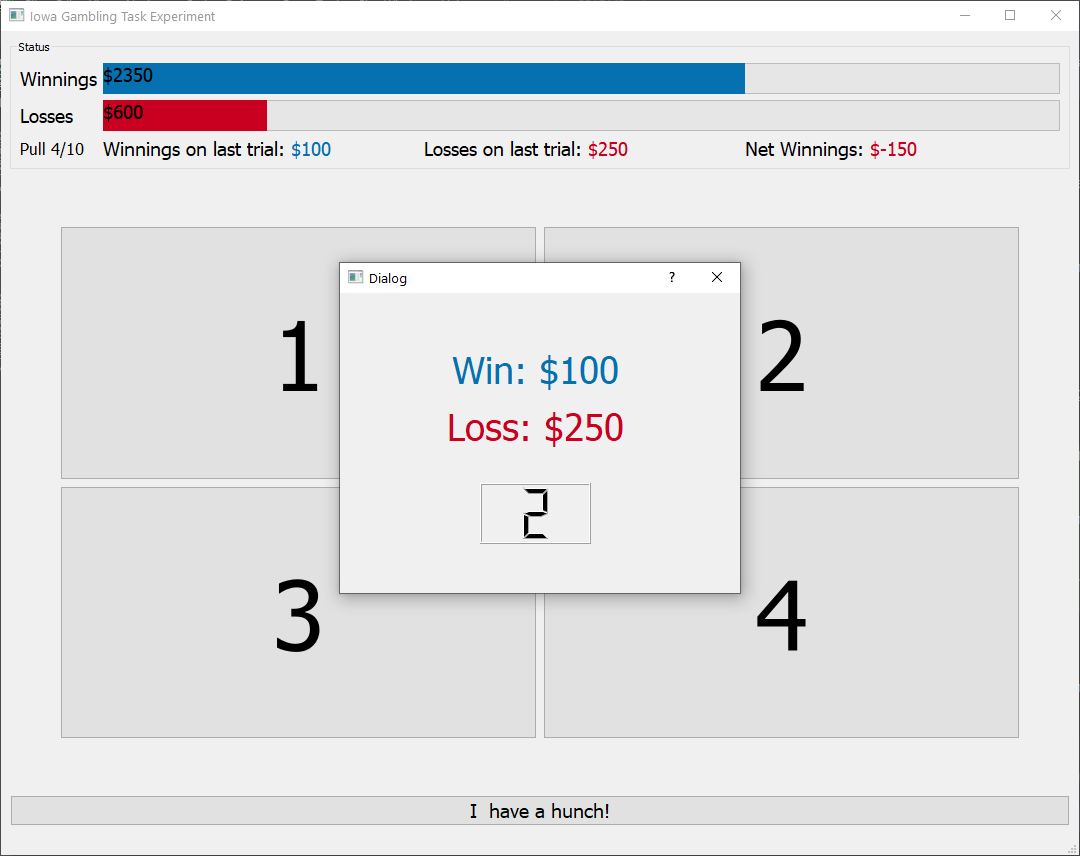
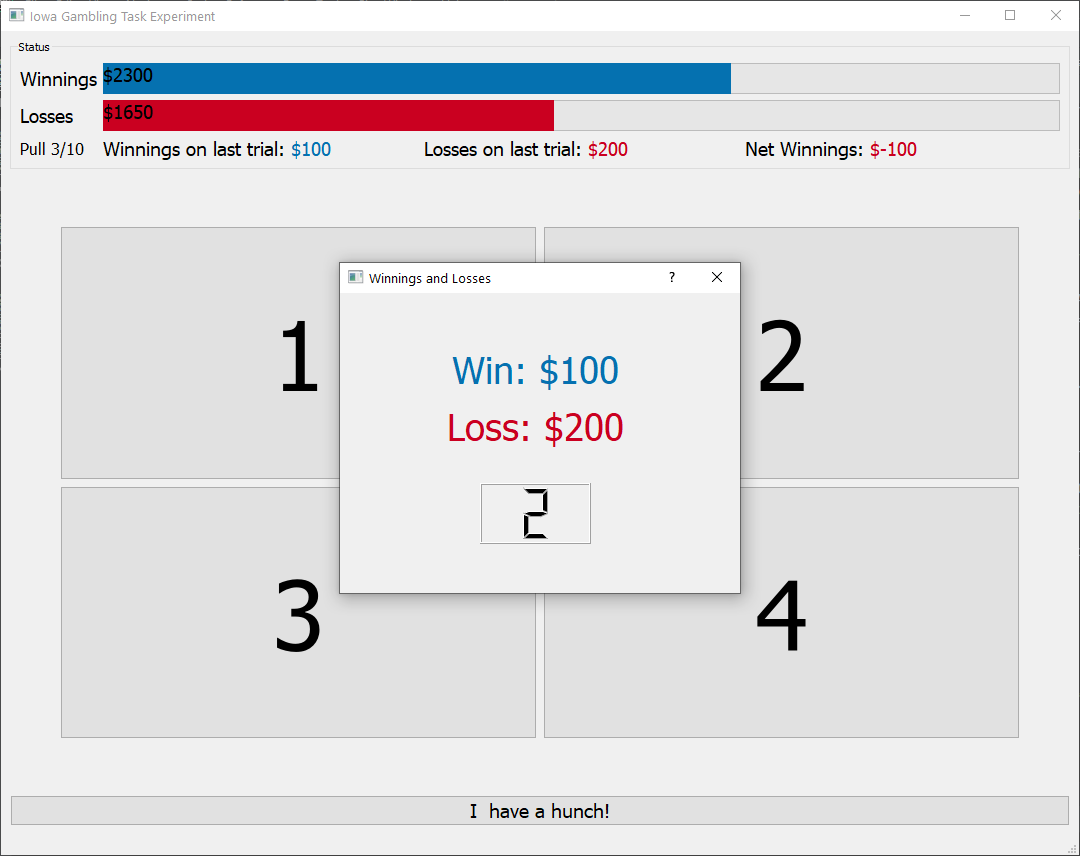
Updated Dialog Title Iowa Winnings

diff --git a/src/spike_recorder/experiments/iowa/win_message_ui.py b/src/spike_recorder/experiments/iowa/win_message_ui.py
@@ -2,11 +2,14 @@
 
 # Form implementation generated from reading ui file 'src\spike_recorder\experiments\iowa\win_message.ui'
 #
-# Created by: PyQt5 UI code generator 5.9.2
+# Created by: PyQt5 UI code generator 5.15.2
 #
-# WARNING! All changes made in this file will be lost!
+# WARNING: Any manual changes made to this file will be lost when pyuic5 is
+# run again.  Do not edit this file unless you know what you are doing.
+
 
 from PyQt5 import QtCore, QtGui, QtWidgets
+
 
 class Ui_Dialog(object):
     def setupUi(self, Dialog):
@@ -31,6 +34,5 @@ class Ui_Dialog(object):
 
     def retranslateUi(self, Dialog):
         _translate = QtCore.QCoreApplication.translate
-        Dialog.setWindowTitle(_translate("Dialog", "Dialog"))
+        Dialog.setWindowTitle(_translate("Dialog", "Winnings and Losses"))
         self.label.setText(_translate("Dialog", "<html><head/><body><p>Win: $100</p><p>Loss: $50</p></body></html>"))
-

diff --git a/README.md b/README.md
@@ -33,7 +33,7 @@ spike-recorder
 ```
 
 If you want to launch the SpikeRecorder application alongside either of the experiments
-below then pass the invoke them with the `--spike-reord` option. 
+below then invoke them with the `--spike-reord` option. 
 
 ## Iowa Gambling Task
 
